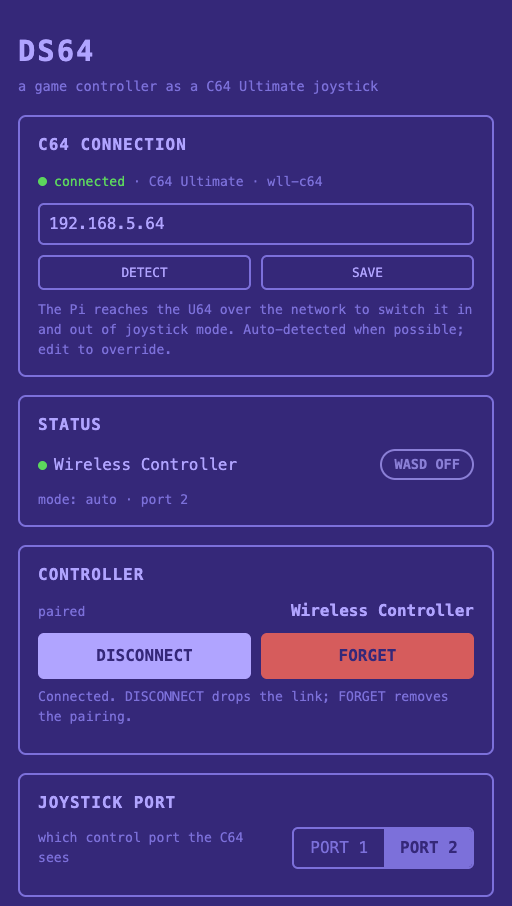
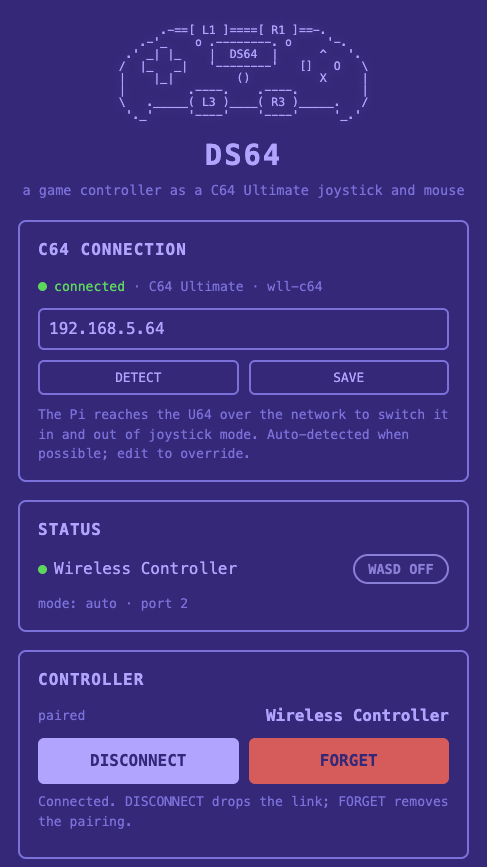
docs(readme): update update instructions and improve clarity in README
- Clarified the update process for the DS64 software in the README.
- Added a footer with GitHub link and copyright information to index.html.
- Updated image descriptions for better accuracy in README.

Changed region(s): [[0.0308, 0.0311, 0.9856, 0.9965]]

diff --git a/web/index.html b/web/index.html
@@ -63,6 +63,9 @@
   .badge.on { background:var(--ok); color:#062b06; }
   .badge.off { background:transparent; color:var(--off); border-color:var(--off); }
   .muted { color:var(--fg); font-size:.82rem; }
+  .foot { text-align:center; color:var(--fg); font-size:.78rem; margin:28px 0 0; line-height:1.7; }
+  .foot a { color:var(--hi); text-decoration:none; }
+  .foot a:hover { text-decoration:underline; }
   pre { white-space:pre-wrap; color:var(--fg); font-size:.78rem; margin:10px 0 0; }
   .dot { display:inline-block; width:9px; height:9px; border-radius:50%;
          background:var(--off); margin-right:7px; vertical-align:middle; }
@@ -224,6 +227,11 @@
     </div>
     <div class="muted" style="margin-top:8px">The DS4/DS5 touchpad drives the GEOS cursor as a 1351 on port 1, so turning it on moves the joystick to Port 2. Lower = slower; the pad is short vertically, so Y is usually a touch faster than X.</div>
   </div>
+
+  <footer class="foot">
+    <a href="https://github.com/wallneradam/DS64" target="_blank" rel="noopener">github.com/wallneradam/DS64</a><br>
+    &copy; 2026 Adam Wallner &middot; GPL v3
+  </footer>
 </div>
 
 <div class="modal" id="logmodal">

diff --git a/README.md b/README.md
@@ -22,8 +22,8 @@ drives **GEOS** and your games without unplugging anything (see
 [Mouse (touchpad)](#mouse-touchpad)).
 
 <p align="center">
-  <img src="docs/web-ui-1.png" alt="DS64 web panel (top): C64 connection, status, controller pairing and joystick port" width="290">
-  <img src="docs/web-ui-2.png" alt="DS64 web panel (bottom): auto/manual mode, extra buttons and the 1351 mouse (touchpad) settings" width="290">
+  <img src="docs/web-ui-1.png" alt="DS64 web panel (top): C64 connection, status and controller pairing" width="290">
+  <img src="docs/web-ui-2.png" alt="DS64 web panel (bottom): joystick port, auto/manual mode, extra buttons and the 1351 mouse (touchpad) settings" width="290">
 </p>
 
 Everything is driven from a small **web panel** — detect the C64, pair the
@@ -139,9 +139,10 @@ described below). When it finishes the installer offers to reboot for you — ju
 press **ENTER** (or Ctrl-C to do it later with `sudo reboot`). The **web panel only
 responds after that reboot**.
 
-- **Update later:** the system is read-only by default, so first run `sudo
-  ds64-unlock` (it reboots), then re-run the install command — it pulls the latest
-  version *and* re-hardens for you.
+- **Update later:** run `sudo ds64-update` — it fetches the latest version and
+  restarts in seconds, **no reboot**, even in read-only appliance mode. (For the
+  rare update that also changes the system setup, it tells you to run the full
+  update instead; see [Appliance mode](#appliance-mode-read-only-power-loss-proof).)
 - **Skip the read-only mode:** prefix the install command with `DS64_NO_HARDEN=1` to
   leave the card writable. Not recommended — a power cut can then corrupt it (see
   [Appliance mode](#appliance-mode-read-only-power-loss-proof)).
@@ -259,21 +260,30 @@ controller bond, your WiFi profiles and the DS64 config. Just power the Pi off w
 the C64; there's nothing to shut down. This is also why the WiFi/bond/config you set
 **after** the install (pairing a pad, picking the C64) still survive a power cut.
 
-To **update** the software or use the Pi for other things, unlock it first:
+**Updating** the DS64 software is a one-liner, even though the system is read-only:
+
+```
+sudo ds64-update    # fetch the latest version and restart — no reboot
+```
+
+It works straight away in appliance mode and takes only a few seconds. If an update
+*also* changes the system setup — the OS, the background services or the boot
+configuration (rare) — `ds64-update` says so and you run the **full update**
+instead: unlock, then re-install (which pulls everything and re-hardens for you):
 
 ```
 sudo ds64-unlock    # make the system writable again, then reboots
 ```
 
-After it reboots, re-run the install command (it pulls the latest version and
-re-hardens for you). To re-harden by hand at any time:
+After it reboots, re-run the install command. You can also re-harden by hand at any
+time:
 
 ```
 sudo ds64-lock      # back to the read-only appliance (one reboot)
 ```
 
-Both commands are reversible and safe to re-run. To install **without** hardening in
-the first place, prefix the install command with `DS64_NO_HARDEN=1`.
+All three commands are reversible and safe to re-run. To install **without**
+hardening in the first place, prefix the install command with `DS64_NO_HARDEN=1`.
 
 ## Troubleshooting
 